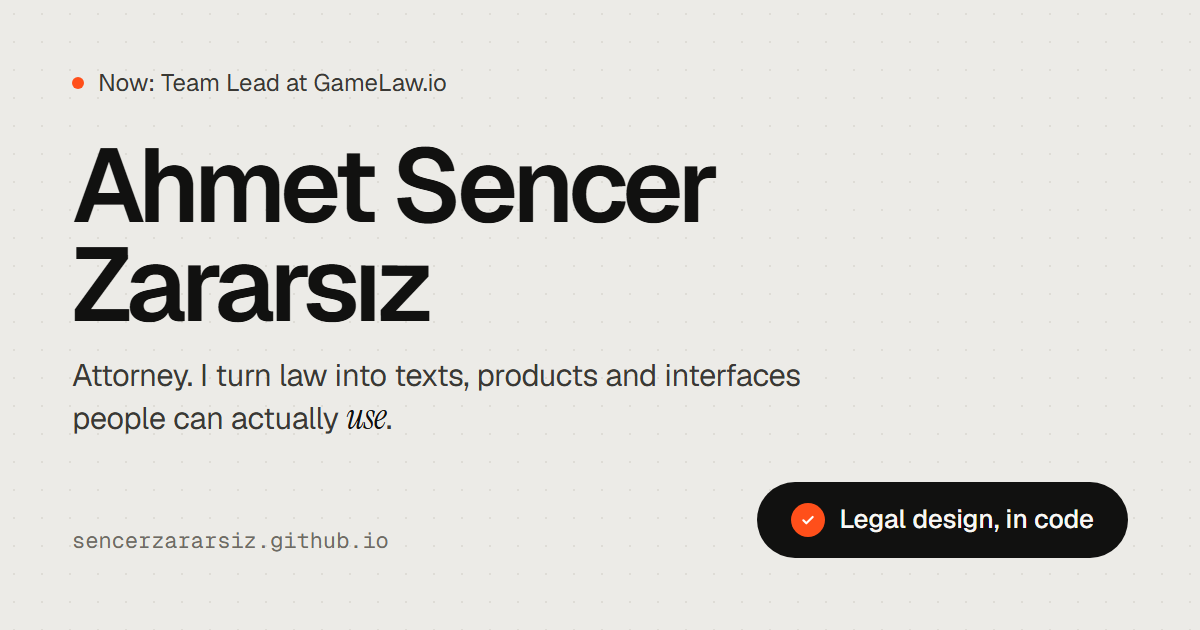
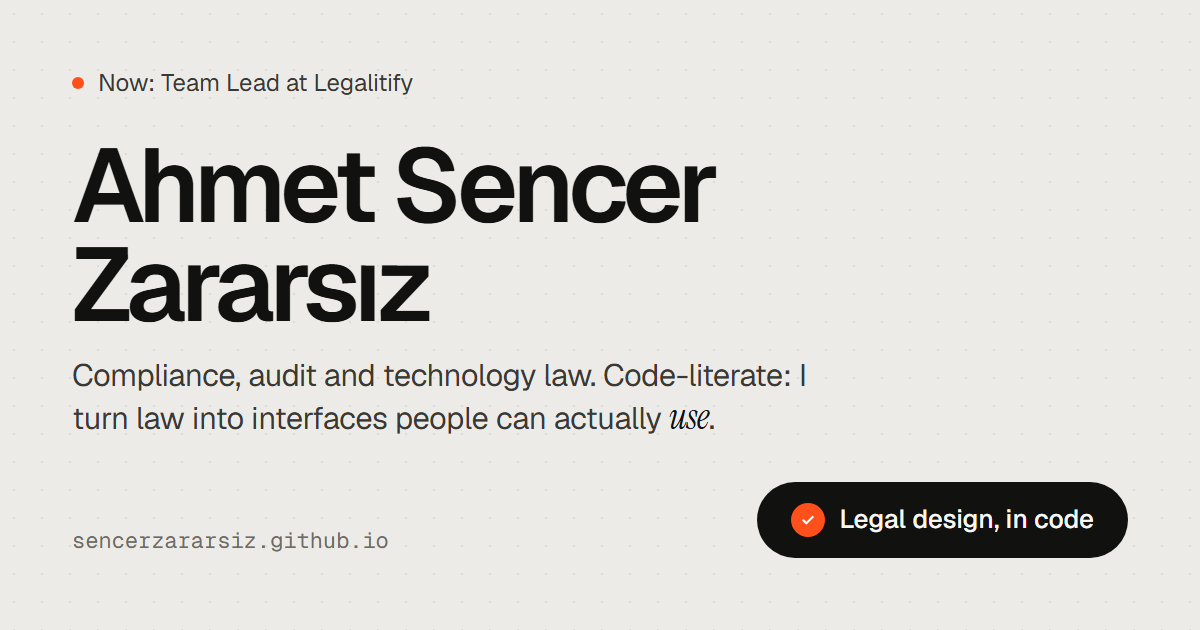
Rolleri güncelle: Legalitify Team Lead, GameLaw legal development/engineering/marketing; kod geçmişi
- Hero: 'Avukatım' yerine uyum, denetim, teknoloji hukuku ve kod okuryazarlığı
- Lexprotect kartı marka itibarı projesi olarak; kurucu çağrışımı veren ifadeler düzeltildi
- OG görselleri güncellendi

Changed region(s): [[0.0617, 0.573, 0.6783, 0.6937], [0.2467, 0.1206, 0.37, 0.1508]]

diff --git a/index.html b/index.html
@@ -58,9 +58,9 @@
   <section class="hero" aria-labelledby="h-name">
     <div class="wrap hero-grid">
       <div>
-        <a class="status" href="https://gamelaw.io" target="_blank" rel="noopener"><span class="pulse" aria-hidden="true"></span>Şu an GameLaw.io&#x27;da Team Lead</a>
+        <a class="status" href="https://legalitify.com" target="_blank" rel="noopener"><span class="pulse" aria-hidden="true"></span>Şu an Legalitify&#x27;da Team Lead</a>
         <h1 id="h-name"><span class="ln">Ahmet Sencer</span><span class="ln">Zararsız</span></h1>
-        <p class="lead">Avukatım. Hukuku, insanların gerçekten <em>kullanabileceği</em> metinlere, ürünlere ve arayüzlere çeviriyorum.</p>
+        <p class="lead">Uyum, denetim ve teknoloji hukuku üzerine çalışıyorum. Kod okuyup yazabildiğim için hukuku, insanların gerçekten <em>kullanabileceği</em> metinlere, ürünlere ve arayüzlere çeviriyorum.</p>
         <div class="cta">
           <a class="btn btn-ink" href="https://www.linkedin.com/in/sencer-ahmet" target="_blank" rel="noopener"><svg viewBox="0 0 24 24" fill="currentColor" aria-hidden="true" focusable="false"><path d="M4.98 3.5a2.5 2.5 0 11-.01 5 2.5 2.5 0 01.01-5zM3 9.75h4V21H3zM9.5 9.75h3.83v1.54h.05c.53-1 1.84-2.06 3.79-2.06 4.05 0 4.8 2.67 4.8 6.13V21h-4v-4.96c0-1.18-.02-2.7-1.65-2.7-1.65 0-1.9 1.29-1.9 2.62V21h-4z"/></svg> LinkedIn profilim</a>
           <a class="btn btn-line" href="/yazilar/">Yazılarım <svg viewBox="0 0 24 24" fill="none" stroke="currentColor" stroke-width="2" stroke-linecap="round" stroke-linejoin="round" aria-hidden="true" focusable="false"><path d="M5 12h14M13 6l6 6-6 6"/></svg></a>
@@ -81,7 +81,7 @@
   <section class="block" id="hakkimda" aria-labelledby="h-about">
     <div class="wrap about">
       <div class="rv"><div class="kicker">Hakkımda</div><h2 id="h-about" class="big">Hukuk fakültesinden sonra yolum mahkeme koridorlarından <em>ürün ekiplerine</em> uzandı.</h2></div>
-      <div class="body rv"><p>2022&#x27;de Atatürk Üniversitesi Hukuk Fakültesi&#x27;nden mezun oldum. Stajımı ve ilk avukatlık yıllarımı Ankara&#x27;da dava dosyaları, sözleşmeler ve KVKK metinleri arasında geçirdim. Aynı yıllarda kendi girişimlerimi kurdum, hukuk teknolojileri atölyeleri düzenledim.</p><p>TÖDEB Fintek Programı ve PARAM&#x27;daki çalışmam beni ödeme hizmetleri, MASAK mevzuatı ve regülasyon uyumunun içine soktu. Bugün lisanslı MASAK Uyum Görevlisi ve ISO/IEC 27001 BGYS Baş Denetçisiyim. Bilgi güvenliği denetimleri, iç kontrol ve risk analizleri, uyum yol haritaları gündelik işimin parçası.</p><p>Asıl merakım hukukun nasıl göründüğü ve nasıl kullanıldığı. Legalitify&#x27;da web sitelerini tarayan bir legaltech ürününün hukuki altyapısını kurdum. GameLaw.io&#x27;da oyun ekosistemi için kurulan hukuki platformun ekibini yönetiyorum. Legal design ve legaltech eğitimleriyle bu yaklaşımı bilişim ve teknoloji topluluklarına anlatıyorum.</p><div class="sign" aria-hidden="true">Ahmet Sencer Zararsız</div></div>
+      <div class="body rv"><p>2022&#x27;de Atatürk Üniversitesi Hukuk Fakültesi&#x27;nden mezun oldum. Stajımı ve ilk avukatlık yıllarımı Ankara&#x27;da dava dosyaları, sözleşmeler ve KVKK metinleri arasında geçirdim. Aynı yıllarda kendi girişimlerimi kurdum, hukuk teknolojileri atölyeleri düzenledim. 2023&#x27;te patika.dev&#x27;de HTML, CSS ve JavaScript projeleriyle kod yazmaya başladım; bugün yazılım ekipleriyle aynı dili konuşabiliyor, bir ürünün kodunu okuyup hukuki riskini oradan görebiliyorum.</p><p>TÖDEB Fintek Programı ve PARAM&#x27;daki çalışmam beni ödeme hizmetleri, MASAK mevzuatı ve regülasyon uyumunun içine soktu. Bugün lisanslı MASAK Uyum Görevlisi ve ISO/IEC 27001 BGYS Baş Denetçisiyim. Bilgi güvenliği denetimleri, iç kontrol ve risk analizleri, uyum yol haritaları gündelik işimin parçası.</p><p>Asıl merakım hukukun nasıl göründüğü ve nasıl kullanıldığı. Legalitify&#x27;da web sitelerini hukuki uyum açısından tarayan bir legaltech ürününün ekibini yönetiyor, ürünün hukuki altyapısında çalışıyorum. GameLaw.io&#x27;da oyun ekosistemine yönelik hukuki platformun legal development, legal engineering ve pazarlama tarafındayım. Legal design ve legaltech eğitimleriyle bu yaklaşımı bilişim ve teknoloji topluluklarına anlatıyorum.</p><div class="sign" aria-hidden="true">Ahmet Sencer Zararsız</div></div>
     </div>
   </section>
 
@@ -156,27 +156,27 @@
   <section class="block" id="girisimler" aria-labelledby="h-ven">
     <div class="wrap">
       <div class="sec-head rv">
-        <div><div class="kicker">Girişimler ve ürünler</div><h2 id="h-ven">Kurduğum ve <em>içinde yer aldığım.</em></h2></div>
-        <p>Hukuki altyapısında çalıştığım ürünler ve aktif rol aldığım girişimler.</p>
+        <div><div class="kicker">Girişimler ve ürünler</div><h2 id="h-ven">İçinde <em>yer aldığım.</em></h2></div>
+        <p>Ekibinde çalıştığım ürünler, hukuki tarafında yer aldığım projeler ve kendi kurduğum ilk girişimler.</p>
       </div>
       <div class="ventures">
-        <a class="v rv feature" href="https://gamelaw.io" target="_blank" rel="noopener">
-          <div class="top"><span class="yr">Güncel</span><span class="arrow"><svg viewBox="0 0 24 24" fill="none" stroke="currentColor" stroke-width="2" stroke-linecap="round" stroke-linejoin="round" aria-hidden="true" focusable="false"><path d="M7 17L17 7M8 7h9v9"/></svg></span></div>
-          <h3>GameLaw.io</h3>
-          <div class="role">Team Lead</div>
-          <p>Oyun ekosisteminin hukuki altyapısı: geliştiriciler, stüdyolar, yayıncılar, yatırımcılar ve espor için analiz araçları, rehberler ve sözleşme havuzu.</p>
-        </a>
-        <a class="v rv" href="https://legalitify.com" target="_blank" rel="noopener">
+        <a class="v rv feature" href="https://legalitify.com" target="_blank" rel="noopener">
           <div class="top"><span class="yr">2025 – devam</span><span class="arrow"><svg viewBox="0 0 24 24" fill="none" stroke="currentColor" stroke-width="2" stroke-linecap="round" stroke-linejoin="round" aria-hidden="true" focusable="false"><path d="M7 17L17 7M8 7h9v9"/></svg></span></div>
           <h3>Legalitify</h3>
-          <div class="role">Legal Engineer · Startup Yöneticisi</div>
+          <div class="role">Team Lead · Legal Engineer</div>
           <p>Web sitelerini, reklamları ve sözleşmeleri veri koruma, tüketici ve reklam mevzuatına göre tarayıp mevzuat atıflı düzeltme öneren legaltech ürünü.</p>
         </a>
+        <a class="v rv" href="https://gamelaw.io" target="_blank" rel="noopener">
+          <div class="top"><span class="yr">Güncel</span><span class="arrow"><svg viewBox="0 0 24 24" fill="none" stroke="currentColor" stroke-width="2" stroke-linecap="round" stroke-linejoin="round" aria-hidden="true" focusable="false"><path d="M7 17L17 7M8 7h9v9"/></svg></span></div>
+          <h3>GameLaw.io</h3>
+          <div class="role">Legal Development · Legal Engineer · Marketing</div>
+          <p>Oyun ekosisteminin hukuki altyapısı: geliştiriciler, stüdyolar, yayıncılar, yatırımcılar ve espor için analiz araçları, rehberler ve sözleşme havuzu.</p>
+        </a>
         <div class="v rv">
-          <div class="top"><span class="yr">2025 – devam</span></div>
+          <div class="top"><span class="yr">2025</span></div>
           <h3>Lexprotect · Lexzero · Banfake</h3>
-          <div class="role">Startup Yöneticisi</div>
-          <p>Legaltech girişim portföyü: altyapı, uyum ve operasyon stratejileri; KPI odaklı büyüme takibi.</p>
+          <div class="role">Hukuki altyapı</div>
+          <p>Marka itibarının korunmasına odaklanan bir proje. Projenin hukuki altyapısı ve uyum tarafında çalıştım.</p>
         </div>
         <div class="v rv">
           <div class="top"><span class="yr">2025 – devam</span></div>
@@ -210,12 +210,23 @@
         <li class="rv">
           <details open>
             <summary>
+              <span class="when">Eylül 2025 – <span class="now">Devam</span></span>
+              <h3 class="what">Legalitify<span>Team Lead · Legal Engineer</span></h3>
+              <span class="where">Birleşik Krallık · uzaktan</span>
+              <span class="plus"><svg viewBox="0 0 12 12" fill="none" stroke="currentColor" stroke-width="1.6" stroke-linecap="round" aria-hidden="true" focusable="false"><path d="M6 1v10M1 6h10"/></svg></span>
+            </summary>
+            <div class="body"><div></div><ul><li>Web sitelerini KVKK ve e-ticaret mevzuatına uyum açısından tarayan, eksik hukuki metinleri tespit edip üreten legaltech/SaaS ürününde ekip liderliği; ürünün hukuki altyapısı, uyum mimarisi ve dokümantasyonu.</li><li>Kullanıcı odaklı, entegrasyona uygun sözleşme mimarileri ve sektöre göre koşullu hukuki metin şablonları; legal design ilkeleriyle.</li><li>Yapay zekâ destekli uyum analizinde AI yönetişimi, KVKK/GDPR uyumu ve risk analizi.</li><li>LegalOps&#x27;un dijital araçlarla modernizasyonu; süreç verimliliği ve KPI odaklı büyüme takibi.</li></ul></div>
+          </details>
+        </li>
+        <li class="rv">
+          <details>
+            <summary>
               <span class="when"><span class="now">Devam</span></span>
-              <h3 class="what">GameLaw.io<span>Team Lead</span></h3>
+              <h3 class="what">GameLaw.io<span>Legal Development · Legal Engineer · Marketing</span></h3>
               <span class="where"></span>
               <span class="plus"><svg viewBox="0 0 12 12" fill="none" stroke="currentColor" stroke-width="1.6" stroke-linecap="round" aria-hidden="true" focusable="false"><path d="M6 1v10M1 6h10"/></svg></span>
             </summary>
-            <div class="body"><div></div><ul><li>Oyun geliştiricileri, stüdyolar, yayıncılar, yatırımcılar ve espor ekosistemi için kurulan hukuki altyapı platformunda ekip liderliği.</li><li>Platform; sözleşmeden fikrî mülkiyete, veri korumadan küresel pazara açılmaya kadar oyunun yaşam döngüsünü hukuki açıdan ele alıyor: oyun, uygulama ve web sitesi yasallık analizi, dijital due diligence, rehberler, yol haritaları ve sözleşme havuzu.</li></ul></div>
+            <div class="body"><div></div><ul><li>Oyun geliştiricileri, stüdyolar, yayıncılar, yatırımcılar ve espor ekosistemine yönelik hukuki altyapı platformunda legal development, legal engineering ve pazarlama çalışmaları.</li><li>Platform; sözleşmeden fikrî mülkiyete, veri korumadan küresel pazara açılmaya kadar oyunun yaşam döngüsünü hukuki açıdan ele alıyor: oyun, uygulama ve web sitesi yasallık analizi, dijital due diligence, rehberler, yol haritaları ve sözleşme havuzu.</li></ul></div>
           </details>
         </li>
         <li class="rv">
@@ -227,17 +238,6 @@
               <span class="plus"><svg viewBox="0 0 12 12" fill="none" stroke="currentColor" stroke-width="1.6" stroke-linecap="round" aria-hidden="true" focusable="false"><path d="M6 1v10M1 6h10"/></svg></span>
             </summary>
             <div class="body"><div></div><ul><li>7545 sayılı Siber Güvenlik Kanunu, KVKK, GDPR, 6563, 5809 ve 5651 sayılı kanunlar kapsamında regülasyon uyumu ve uyum yol haritaları.</li><li>ISO/IEC 27001 BGYS kapsamında şirket denetimleri ve belgelendirmeye hazırlık; denetim bulgularının ve risk analizlerinin raporlanması.</li><li>KVKK uyum projeleri (mobil, web ve fiziksel ortam): veri envanteri, aydınlatma ve açık rıza metinleri, uyum dokümantasyonu.</li><li>COSO yaklaşımıyla iç kontrol ve iç denetim, risk analizi ve ölçeklendirme; hukuki durum tespiti (due diligence) ve risk raporlama.</li><li>Yapay zekâ, Web3, fintek, e-ticaret ve SaaS ürünleri için hukuki risk analizleri; SaaS sözleşmeleri, sözleşme yönetimi (CLM) ve müzakere.</li><li>Girişim hukuku ve yatırım turları (şirketleşme, SHA); Türkiye, Avrupa ve MENA&#x27;da şirket işlemleri; şirketler ve sağlık hukuku danışmanlığı.</li><li>Reklam Kurulu nezdinde savunma ve uzlaşma; FSEK ve marka uyuşmazlıkları; arabuluculuk. Legal design, uyum mimarisi ve kurumsal eğitimler.</li></ul></div>
-          </details>
-        </li>
-        <li class="rv">
-          <details>
-            <summary>
-              <span class="when">Eylül 2025 – <span class="now">Devam</span></span>
-              <h3 class="what">Legalitify<span>Legal Engineer · Startup Yöneticisi</span></h3>
-              <span class="where">Birleşik Krallık · uzaktan</span>
-              <span class="plus"><svg viewBox="0 0 12 12" fill="none" stroke="currentColor" stroke-width="1.6" stroke-linecap="round" aria-hidden="true" focusable="false"><path d="M6 1v10M1 6h10"/></svg></span>
-            </summary>
-            <div class="body"><div></div><ul><li>Web sitelerini KVKK ve e-ticaret mevzuatına uyum açısından tarayan, eksik hukuki metinleri tespit edip üreten legaltech/SaaS ürününün hukuki altyapısı, uyum mimarisi ve dokümantasyonu.</li><li>Kullanıcı odaklı, entegrasyona uygun sözleşme mimarileri ve sektöre göre koşullu hukuki metin şablonları; legal design ilkeleriyle.</li><li>Yapay zekâ destekli uyum analizinde AI yönetişimi, KVKK/GDPR uyumu ve risk analizi.</li><li>LegalOps&#x27;un dijital araçlarla modernizasyonu; süreç verimliliği ve KPI odaklı büyüme takibi.</li></ul></div>
           </details>
         </li>
         <li class="rv">

diff --git a/en/index.html b/en/index.html
@@ -58,9 +58,9 @@
   <section class="hero" aria-labelledby="h-name">
     <div class="wrap hero-grid">
       <div>
-        <a class="status" href="https://gamelaw.io" target="_blank" rel="noopener"><span class="pulse" aria-hidden="true"></span>Now: Team Lead at GameLaw.io</a>
+        <a class="status" href="https://legalitify.com" target="_blank" rel="noopener"><span class="pulse" aria-hidden="true"></span>Now: Team Lead at Legalitify</a>
         <h1 id="h-name"><span class="ln">Ahmet Sencer</span><span class="ln">Zararsız</span></h1>
-        <p class="lead">I'm a lawyer. I turn law into texts, products and interfaces people can actually <em>use</em>.</p>
+        <p class="lead">I work on compliance, audit and technology law. Because I can read and write code, I turn law into texts, products and interfaces people can actually <em>use</em>.</p>
         <div class="cta">
           <a class="btn btn-ink" href="https://www.linkedin.com/in/sencer-ahmet" target="_blank" rel="noopener"><svg viewBox="0 0 24 24" fill="currentColor" aria-hidden="true" focusable="false"><path d="M4.98 3.5a2.5 2.5 0 11-.01 5 2.5 2.5 0 01.01-5zM3 9.75h4V21H3zM9.5 9.75h3.83v1.54h.05c.53-1 1.84-2.06 3.79-2.06 4.05 0 4.8 2.67 4.8 6.13V21h-4v-4.96c0-1.18-.02-2.7-1.65-2.7-1.65 0-1.9 1.29-1.9 2.62V21h-4z"/></svg> My LinkedIn</a>
           <a class="btn btn-line" href="/en/writing/">Writing <svg viewBox="0 0 24 24" fill="none" stroke="currentColor" stroke-width="2" stroke-linecap="round" stroke-linejoin="round" aria-hidden="true" focusable="false"><path d="M5 12h14M13 6l6 6-6 6"/></svg></a>
@@ -81,7 +81,7 @@
   <section class="block" id="about" aria-labelledby="h-about">
     <div class="wrap about">
       <div class="rv"><div class="kicker">About</div><h2 id="h-about" class="big">After law school, my path ran from courtroom corridors to <em>product teams</em>.</h2></div>
-      <div class="body rv"><p>I graduated from Atatürk University Faculty of Law in 2022. I spent my traineeship and first years as a lawyer in Ankara among case files, contracts and data protection documents, and in the same years founded my own ventures and ran legal technology workshops.</p><p>The TÖDEB Fintech Programme and my work at PARAM pulled me into payment services, anti-money-laundering rules and regulatory compliance. Today I&#x27;m a licensed MASAK Compliance Officer and an ISO/IEC 27001 ISMS Lead Auditor; information security audits, internal control, risk analyses and compliance roadmaps are part of my everyday work.</p><p>What I&#x27;m really curious about is how law looks and how it&#x27;s used. At Legalitify I built the legal infrastructure of a legaltech product that scans websites. At GameLaw.io I lead the team behind a legal platform for the games ecosystem. Through legal design and legaltech training I share this approach with IT and technology communities.</p><div class="sign" aria-hidden="true">Ahmet Sencer Zararsız</div></div>
+      <div class="body rv"><p>I graduated from Atatürk University Faculty of Law in 2022. I spent my traineeship and first years as a lawyer in Ankara among case files, contracts and data protection documents, and in the same years founded my own ventures and ran legal technology workshops. In 2023 I started coding with HTML, CSS and JavaScript projects on patika.dev; today I can talk to engineering teams in their language and read a product&#x27;s code to see its legal risk.</p><p>The TÖDEB Fintech Programme and my work at PARAM pulled me into payment services, anti-money-laundering rules and regulatory compliance. Today I&#x27;m a licensed MASAK Compliance Officer and an ISO/IEC 27001 ISMS Lead Auditor; information security audits, internal control, risk analyses and compliance roadmaps are part of my everyday work.</p><p>What I&#x27;m really curious about is how law looks and how it&#x27;s used. At Legalitify I lead the team behind a legaltech product that scans websites for legal compliance, and work on its legal infrastructure. At GameLaw.io, a legal platform for the games ecosystem, I work on legal development, legal engineering and marketing. Through legal design and legaltech training I share this approach with IT and technology communities.</p><div class="sign" aria-hidden="true">Ahmet Sencer Zararsız</div></div>
     </div>
   </section>
 
@@ -156,27 +156,27 @@
   <section class="block" id="ventures" aria-labelledby="h-ven">
     <div class="wrap">
       <div class="sec-head rv">
-        <div><div class="kicker">Ventures &amp; products</div><h2 id="h-ven">Founded and <em>built with.</em></h2></div>
-        <p>Products whose legal infrastructure I work on and ventures where I hold an active role.</p>
+        <div><div class="kicker">Ventures &amp; products</div><h2 id="h-ven">Where I've <em>been part of the team.</em></h2></div>
+        <p>Products whose teams I work in, projects where I handled the legal side, and the early ventures I founded myself.</p>
       </div>
       <div class="ventures">
-        <a class="v rv feature" href="https://gamelaw.io" target="_blank" rel="noopener">
-          <div class="top"><span class="yr">Current</span><span class="arrow"><svg viewBox="0 0 24 24" fill="none" stroke="currentColor" stroke-width="2" stroke-linecap="round" stroke-linejoin="round" aria-hidden="true" focusable="false"><path d="M7 17L17 7M8 7h9v9"/></svg></span></div>
-          <h3>GameLaw.io</h3>
-          <div class="role">Team Lead</div>
-          <p>Legal infrastructure for the games ecosystem: analysis tools, guides and a contract library for developers, studios, publishers, investors and esports.</p>
-        </a>
-        <a class="v rv" href="https://legalitify.com" target="_blank" rel="noopener">
+        <a class="v rv feature" href="https://legalitify.com" target="_blank" rel="noopener">
           <div class="top"><span class="yr">2025 – present</span><span class="arrow"><svg viewBox="0 0 24 24" fill="none" stroke="currentColor" stroke-width="2" stroke-linecap="round" stroke-linejoin="round" aria-hidden="true" focusable="false"><path d="M7 17L17 7M8 7h9v9"/></svg></span></div>
           <h3>Legalitify</h3>
-          <div class="role">Legal Engineer · Startup Manager</div>
+          <div class="role">Team Lead · Legal Engineer</div>
           <p>A legaltech product that scans websites, ads and contracts against data protection, consumer and advertising law and proposes cited fixes.</p>
         </a>
+        <a class="v rv" href="https://gamelaw.io" target="_blank" rel="noopener">
+          <div class="top"><span class="yr">Current</span><span class="arrow"><svg viewBox="0 0 24 24" fill="none" stroke="currentColor" stroke-width="2" stroke-linecap="round" stroke-linejoin="round" aria-hidden="true" focusable="false"><path d="M7 17L17 7M8 7h9v9"/></svg></span></div>
+          <h3>GameLaw.io</h3>
+          <div class="role">Legal Development · Legal Engineer · Marketing</div>
+          <p>Legal infrastructure for the games ecosystem: analysis tools, guides and a contract library for developers, studios, publishers, investors and esports.</p>
+        </a>
         <div class="v rv">
-          <div class="top"><span class="yr">2025 – present</span></div>
+          <div class="top"><span class="yr">2025</span></div>
           <h3>Lexprotect · Lexzero · Banfake</h3>
-          <div class="role">Startup Manager</div>
-          <p>A legaltech startup portfolio: infrastructure, compliance and operations strategy; KPI-driven growth tracking.</p>
+          <div class="role">Legal side</div>
+          <p>A project focused on protecting brand reputation. I worked on its legal infrastructure and compliance.</p>
         </div>
         <div class="v rv">
           <div class="top"><span class="yr">2025 – present</span></div>
@@ -210,12 +210,23 @@
         <li class="rv">
           <details open>
             <summary>
+              <span class="when">Sep 2025 – <span class="now">Present</span></span>
+              <h3 class="what">Legalitify<span>Team Lead · Legal Engineer</span></h3>
+              <span class="where">United Kingdom · remote</span>
+              <span class="plus"><svg viewBox="0 0 12 12" fill="none" stroke="currentColor" stroke-width="1.6" stroke-linecap="round" aria-hidden="true" focusable="false"><path d="M6 1v10M1 6h10"/></svg></span>
+            </summary>
+            <div class="body"><div></div><ul><li>Team lead for a legaltech/SaaS product that scans websites for KVKK and e-commerce compliance, flags missing legal texts and generates them; its legal infrastructure, compliance architecture and documentation.</li><li>User-centred, integration-ready contract architectures and sector-conditional legal text templates, built on legal design principles.</li><li>AI governance, KVKK/GDPR compliance and risk analysis for AI-assisted compliance analysis tools.</li><li>Modernising LegalOps with digital tools; process efficiency and KPI-driven growth tracking.</li></ul></div>
+          </details>
+        </li>
+        <li class="rv">
+          <details>
+            <summary>
               <span class="when"><span class="now">Present</span></span>
-              <h3 class="what">GameLaw.io<span>Team Lead</span></h3>
+              <h3 class="what">GameLaw.io<span>Legal Development · Legal Engineer · Marketing</span></h3>
               <span class="where"></span>
               <span class="plus"><svg viewBox="0 0 12 12" fill="none" stroke="currentColor" stroke-width="1.6" stroke-linecap="round" aria-hidden="true" focusable="false"><path d="M6 1v10M1 6h10"/></svg></span>
             </summary>
-            <div class="body"><div></div><ul><li>Team lead at a legal infrastructure platform for game developers, studios, publishers, investors and the esports ecosystem.</li><li>The platform covers the game lifecycle from contracts and IP to data protection and global expansion: game, app and website legality analysis, digital due diligence, guides, roadmaps and a contract library.</li></ul></div>
+            <div class="body"><div></div><ul><li>Legal development, legal engineering and marketing at a legal infrastructure platform for game developers, studios, publishers, investors and the esports ecosystem.</li><li>The platform covers the game lifecycle from contracts and IP to data protection and global expansion: game, app and website legality analysis, digital due diligence, guides, roadmaps and a contract library.</li></ul></div>
           </details>
         </li>
         <li class="rv">
@@ -227,17 +238,6 @@
               <span class="plus"><svg viewBox="0 0 12 12" fill="none" stroke="currentColor" stroke-width="1.6" stroke-linecap="round" aria-hidden="true" focusable="false"><path d="M6 1v10M1 6h10"/></svg></span>
             </summary>
             <div class="body"><div></div><ul><li>Regulatory compliance and compliance roadmaps under Cybersecurity Law No. 7545, KVKK, GDPR and Laws No. 6563, 5809 and 5651.</li><li>Company audits and certification readiness under ISO/IEC 27001 ISMS; reporting of audit findings and risk analyses.</li><li>KVKK compliance projects (mobile, web and physical): data inventories, privacy notices, explicit consent texts and documentation.</li><li>Internal control and internal audit with a COSO approach; risk analysis, due diligence and risk reporting.</li><li>Legal risk analyses for AI, Web3, fintech, e-commerce and SaaS products; SaaS agreements, contract lifecycle management (CLM) and negotiation.</li><li>Startup law and investment rounds (incorporation, SHAs); corporate transactions in Türkiye, Europe and MENA; corporate and health law advisory.</li><li>Defence and settlement before the Advertising Board; copyright and trademark disputes; mediation. Legal design, compliance architecture and corporate training.</li></ul></div>
-          </details>
-        </li>
-        <li class="rv">
-          <details>
-            <summary>
-              <span class="when">Sep 2025 – <span class="now">Present</span></span>
-              <h3 class="what">Legalitify<span>Legal Engineer · Startup Manager</span></h3>
-              <span class="where">United Kingdom · remote</span>
-              <span class="plus"><svg viewBox="0 0 12 12" fill="none" stroke="currentColor" stroke-width="1.6" stroke-linecap="round" aria-hidden="true" focusable="false"><path d="M6 1v10M1 6h10"/></svg></span>
-            </summary>
-            <div class="body"><div></div><ul><li>Legal infrastructure, compliance architecture and documentation for a legaltech/SaaS product that scans websites for KVKK and e-commerce compliance, flags missing legal texts and generates them.</li><li>User-centred, integration-ready contract architectures and sector-conditional legal text templates, built on legal design principles.</li><li>AI governance, KVKK/GDPR compliance and risk analysis for AI-assisted compliance analysis tools.</li><li>Modernising LegalOps with digital tools; process efficiency and KPI-driven growth tracking.</li></ul></div>
           </details>
         </li>
         <li class="rv">

diff --git a/tools/og.html b/tools/og.html
@@ -23,7 +23,7 @@ p em{font-family:var(--serif);font-style:italic;color:#111110;font-size:1.15em}
 </div>
 <script>
 var en=location.search==="?lang=en";
-document.getElementById('st').textContent=en?'Now: Team Lead at GameLaw.io':"Şu an GameLaw.io'da Team Lead";
-document.getElementById('ld').innerHTML=en?'Attorney. I turn law into texts, products and interfaces people can actually <em>use</em>.':'Avukat. Hukuku, insanların gerçekten <em>kullanabileceği</em> metinlere ve arayüzlere çeviriyorum.';
+document.getElementById('st').textContent=en?'Now: Team Lead at Legalitify':"Şu an Legalitify'da Team Lead";
+document.getElementById('ld').innerHTML=en?'Compliance, audit and technology law. Code-literate: I turn law into interfaces people can actually <em>use</em>.':'Uyum, denetim ve teknoloji hukuku. Kod okuryazarı; hukuku gerçekten <em>kullanılabilen</em> arayüzlere çeviriyorum.';
 document.getElementById('pl').textContent=en?'Legal design, in code':'Kodla legal design';
 </script></body></html>

diff --git a/build.py b/build.py
@@ -159,8 +159,8 @@ HOME = {
         "title": "Ahmet Sencer Zararsız · Avukat",
         "desc": "Ahmet Sencer Zararsız. Avukat; teknoloji hukuku, regülasyon uyumu, legaltech ve legal design üzerine çalışıyor. Özgeçmiş, yazılar ve eğitimler.",
         "og_locale": "tr_TR",
-        "status": "Şu an GameLaw.io'da Team Lead",
-        "lead": "Avukatım. Hukuku, insanların gerçekten <em>kullanabileceği</em> metinlere, ürünlere ve arayüzlere çeviriyorum.",
+        "status": "Şu an Legalitify'da Team Lead",
+        "lead": "Uyum, denetim ve teknoloji hukuku üzerine çalışıyorum. Kod okuyup yazabildiğim için hukuku, insanların gerçekten <em>kullanabileceği</em> metinlere, ürünlere ve arayüzlere çeviriyorum.",
         "cta1": "LinkedIn profilim",
         "cta2": "Yazılarım",
         "reel_cap": "Bu animasyonun tamamı kod. Tek bir şekil, bir uyum akışını baştan sona anlatıyor.",
@@ -172,9 +172,9 @@ HOME = {
         "about_k": "Hakkımda",
         "about_big": "Hukuk fakültesinden sonra yolum mahkeme koridorlarından <em>ürün ekiplerine</em> uzandı.",
         "about": [
-            "2022'de Atatürk Üniversitesi Hukuk Fakültesi'nden mezun oldum. Stajımı ve ilk avukatlık yıllarımı Ankara'da dava dosyaları, sözleşmeler ve KVKK metinleri arasında geçirdim. Aynı yıllarda kendi girişimlerimi kurdum, hukuk teknolojileri atölyeleri düzenledim.",
+            "2022'de Atatürk Üniversitesi Hukuk Fakültesi'nden mezun oldum. Stajımı ve ilk avukatlık yıllarımı Ankara'da dava dosyaları, sözleşmeler ve KVKK metinleri arasında geçirdim. Aynı yıllarda kendi girişimlerimi kurdum, hukuk teknolojileri atölyeleri düzenledim. 2023'te patika.dev'de HTML, CSS ve JavaScript projeleriyle kod yazmaya başladım; bugün yazılım ekipleriyle aynı dili konuşabiliyor, bir ürünün kodunu okuyup hukuki riskini oradan görebiliyorum.",
             "TÖDEB Fintek Programı ve PARAM'daki çalışmam beni ödeme hizmetleri, MASAK mevzuatı ve regülasyon uyumunun içine soktu. Bugün lisanslı MASAK Uyum Görevlisi ve ISO/IEC 27001 BGYS Baş Denetçisiyim. Bilgi güvenliği denetimleri, iç kontrol ve risk analizleri, uyum yol haritaları gündelik işimin parçası.",
-            "Asıl merakım hukukun nasıl göründüğü ve nasıl kullanıldığı. Legalitify'da web sitelerini tarayan bir legaltech ürününün hukuki altyapısını kurdum. GameLaw.io'da oyun ekosistemi için kurulan hukuki platformun ekibini yönetiyorum. Legal design ve legaltech eğitimleriyle bu yaklaşımı bilişim ve teknoloji topluluklarına anlatıyorum.",
+            "Asıl merakım hukukun nasıl göründüğü ve nasıl kullanıldığı. Legalitify'da web sitelerini hukuki uyum açısından tarayan bir legaltech ürününün ekibini yönetiyor, ürünün hukuki altyapısında çalışıyorum. GameLaw.io'da oyun ekosistemine yönelik hukuki platformun legal development, legal engineering ve pazarlama tarafındayım. Legal design ve legaltech eğitimleriyle bu yaklaşımı bilişim ve teknoloji topluluklarına anlatıyorum.",
         ],
         "approach_k": "Yaklaşım",
         "approach_h": "Dört şapka, <em>tek masa.</em>",
@@ -221,8 +221,8 @@ HOME = {
             ("Haklarınız", 'Bilgi isteme, düzeltme, silme ve itiraz <code>KVKK m.11</code>'),
         ],
         "ven_k": "Girişimler ve ürünler",
-        "ven_h": "Kurduğum ve <em>içinde yer aldığım.</em>",
-        "ven_p": "Hukuki altyapısında çalıştığım ürünler ve aktif rol aldığım girişimler.",
+        "ven_h": "İçinde <em>yer aldığım.</em>",
+        "ven_p": "Ekibinde çalıştığım ürünler, hukuki tarafında yer aldığım projeler ve kendi kurduğum ilk girişimler.",
         "now": "Devam",
         "exp_k": "Deneyim",
         "exp_h": "Adliyeden ürün ekibine.",
@@ -251,8 +251,8 @@ HOME = {
         "title": "Ahmet Sencer Zararsız · Attorney",
         "desc": "Ahmet Sencer Zararsız. Attorney working on technology law, regulatory compliance, legaltech and legal design. CV, writing and training.",
         "og_locale": "en_US",
-        "status": "Now: Team Lead at GameLaw.io",
-        "lead": "I'm a lawyer. I turn law into texts, products and interfaces people can actually <em>use</em>.",
+        "status": "Now: Team Lead at Legalitify",
+        "lead": "I work on compliance, audit and technology law. Because I can read and write code, I turn law into texts, products and interfaces people can actually <em>use</em>.",
         "cta1": "My LinkedIn",
         "cta2": "Writing",
         "reel_cap": "Every frame of this animation is code. One shape tells a whole compliance flow.",
@@ -264,9 +264,9 @@ HOME = {
         "about_k": "About",
         "about_big": "After law school, my path ran from courtroom corridors to <em>product teams</em>.",
         "about": [
-            "I graduated from Atatürk University Faculty of Law in 2022. I spent my traineeship and first years as a lawyer in Ankara among case files, contracts and data protection documents, and in the same years founded my own ventures and ran legal technology workshops.",
+            "I graduated from Atatürk University Faculty of Law in 2022. I spent my traineeship and first years as a lawyer in Ankara among case files, contracts and data protection documents, and in the same years founded my own ventures and ran legal technology workshops. In 2023 I started coding with HTML, CSS and JavaScript projects on patika.dev; today I can talk to engineering teams in their language and read a product's code to see its legal risk.",
             "The TÖDEB Fintech Programme and my work at PARAM pulled me into payment services, anti-money-laundering rules and regulatory compliance. Today I'm a licensed MASAK Compliance Officer and an ISO/IEC 27001 ISMS Lead Auditor; information security audits, internal control, risk analyses and compliance roadmaps are part of my everyday work.",
-            "What I'm really curious about is how law looks and how it's used. At Legalitify I built the legal infrastructure of a legaltech product that scans websites. At GameLaw.io I lead the team behind a legal platform for the games ecosystem. Through legal design and legaltech training I share this approach with IT and technology communities.",
+            "What I'm really curious about is how law looks and how it's used. At Legalitify I lead the team behind a legaltech product that scans websites for legal compliance, and work on its legal infrastructure. At GameLaw.io, a legal platform for the games ecosystem, I work on legal development, legal engineering and marketing. Through legal design and legaltech training I share this approach with IT and technology communities.",
         ],
         "approach_k": "Approach",
         "approach_h": "Four hats, <em>one desk.</em>",
@@ -313,8 +313,8 @@ HOME = {
             ("Your rights", 'Access, correction, erasure and objection <code>KVKK Art. 11</code>'),
         ],
         "ven_k": "Ventures & products",
-        "ven_h": "Founded and <em>built with.</em>",
-        "ven_p": "Products whose legal infrastructure I work on and ventures where I hold an active role.",
+        "ven_h": "Where I've <em>been part of the team.</em>",
+        "ven_p": "Products whose teams I work in, projects where I handled the legal side, and the early ventures I founded myself.",
         "now": "Present",
         "exp_k": "Experience",
         "exp_h": "From courtroom to product team.",
@@ -348,10 +348,19 @@ HOME_IDS = {
 
 # Deneyim: (tarih_tr, tarih_en, devam?, şirket, rol_tr, rol_en, yer_tr, yer_en, [madde_tr], [madde_en])
 EXPERIENCE = [
-    ("", "", True, "GameLaw.io", "Team Lead", "Team Lead", "", "",
-     ["Oyun geliştiricileri, stüdyolar, yayıncılar, yatırımcılar ve espor ekosistemi için kurulan hukuki altyapı platformunda ekip liderliği.",
+    ("Eylül 2025", "Sep 2025", True, "Legalitify", "Team Lead · Legal Engineer", "Team Lead · Legal Engineer", "Birleşik Krallık · uzaktan", "United Kingdom · remote",
+     ["Web sitelerini KVKK ve e-ticaret mevzuatına uyum açısından tarayan, eksik hukuki metinleri tespit edip üreten legaltech/SaaS ürününde ekip liderliği; ürünün hukuki altyapısı, uyum mimarisi ve dokümantasyonu.",
+      "Kullanıcı odaklı, entegrasyona uygun sözleşme mimarileri ve sektöre göre koşullu hukuki metin şablonları; legal design ilkeleriyle.",
+      "Yapay zekâ destekli uyum analizinde AI yönetişimi, KVKK/GDPR uyumu ve risk analizi.",
+      "LegalOps'un dijital araçlarla modernizasyonu; süreç verimliliği ve KPI odaklı büyüme takibi."],
+     ["Team lead for a legaltech/SaaS product that scans websites for KVKK and e-commerce compliance, flags missing legal texts and generates them; its legal infrastructure, compliance architecture and documentation.",
+      "User-centred, integration-ready contract architectures and sector-conditional legal text templates, built on legal design principles.",
+      "AI governance, KVKK/GDPR compliance and risk analysis for AI-assisted compliance analysis tools.",
+      "Modernising LegalOps with digital tools; process efficiency and KPI-driven growth tracking."]),
+    ("", "", True, "GameLaw.io", "Legal Development · Legal Engineer · Marketing", "Legal Development · Legal Engineer · Marketing", "", "",
+     ["Oyun geliştiricileri, stüdyolar, yayıncılar, yatırımcılar ve espor ekosistemine yönelik hukuki altyapı platformunda legal development, legal engineering ve pazarlama çalışmaları.",
       "Platform; sözleşmeden fikrî mülkiyete, veri korumadan küresel pazara açılmaya kadar oyunun yaşam döngüsünü hukuki açıdan ele alıyor: oyun, uygulama ve web sitesi yasallık analizi, dijital due diligence, rehberler, yol haritaları ve sözleşme havuzu."],
-     ["Team lead at a legal infrastructure platform for game developers, studios, publishers, investors and the esports ecosystem.",
+     ["Legal development, legal engineering and marketing at a legal infrastructure platform for game developers, studios, publishers, investors and the esports ecosystem.",
       "The platform covers the game lifecycle from contracts and IP to data protection and global expansion: game, app and website legality analysis, digital due diligence, guides, roadmaps and a contract library."]),
     ("Ekim 2025", "Oct 2025", True, "Karataş & Partners Hukuk Bürosu", "Avukat · Teknoloji Hukuku, Uyum ve Denetim, Eğitmen", "Attorney · Technology Law, Compliance & Audit, Trainer", "İstanbul", "Istanbul",
      ["7545 sayılı Siber Güvenlik Kanunu, KVKK, GDPR, 6563, 5809 ve 5651 sayılı kanunlar kapsamında regülasyon uyumu ve uyum yol haritaları.",
@@ -368,15 +377,6 @@ EXPERIENCE = [
       "Legal risk analyses for AI, Web3, fintech, e-commerce and SaaS products; SaaS agreements, contract lifecycle management (CLM) and negotiation.",
       "Startup law and investment rounds (incorporation, SHAs); corporate transactions in Türkiye, Europe and MENA; corporate and health law advisory.",
       "Defence and settlement before the Advertising Board; copyright and trademark disputes; mediation. Legal design, compliance architecture and corporate training."]),
-    ("Eylül 2025", "Sep 2025", True, "Legalitify", "Legal Engineer · Startup Yöneticisi", "Legal Engineer · Startup Manager", "Birleşik Krallık · uzaktan", "United Kingdom · remote",
-     ["Web sitelerini KVKK ve e-ticaret mevzuatına uyum açısından tarayan, eksik hukuki metinleri tespit edip üreten legaltech/SaaS ürününün hukuki altyapısı, uyum mimarisi ve dokümantasyonu.",
-      "Kullanıcı odaklı, entegrasyona uygun sözleşme mimarileri ve sektöre göre koşullu hukuki metin şablonları; legal design ilkeleriyle.",
-      "Yapay zekâ destekli uyum analizinde AI yönetişimi, KVKK/GDPR uyumu ve risk analizi.",
-      "LegalOps'un dijital araçlarla modernizasyonu; süreç verimliliği ve KPI odaklı büyüme takibi."],
-     ["Legal infrastructure, compliance architecture and documentation for a legaltech/SaaS product that scans websites for KVKK and e-commerce compliance, flags missing legal texts and generates them.",
-      "User-centred, integration-ready contract architectures and sector-conditional legal text templates, built on legal design principles.",
-      "AI governance, KVKK/GDPR compliance and risk analysis for AI-assisted compliance analysis tools.",
-      "Modernising LegalOps with digital tools; process efficiency and KPI-driven growth tracking."]),
     ("Mart 2025 – Haziran 2026", "Mar 2025 – Jun 2026", False, "PARAM · Türk Elektronik Para A.Ş.", "Avukat · KVKK ve Regülasyon Uyumu (TÖDEB Fintek Çıraklık Programı)", "Attorney · KVKK & Regulatory Compliance (TÖDEB Fintech Apprenticeship)", "Ankara · hibrit", "Ankara · hybrid",
      ["5549 (MASAK), 6493 (ödeme hizmetleri ve elektronik para) ve 6698 sayılı kanunlar çerçevesinde grup şirketlerinin uyum süreçleri, yükümlülük analizi ve risk raporlaması.",
       "Şüpheli işlem izleme uyumu; ödeme sistemleri, e-ticaret ve sosyal medya süreçlerine ilişkin regülatif risk analizleri.",
@@ -403,15 +403,15 @@ EXPERIENCE = [
 ]
 
 VENTURES = [
-    ("GameLaw.io", "https://gamelaw.io", "Güncel", "Current", "Team Lead", "Team Lead",
-     "Oyun ekosisteminin hukuki altyapısı: geliştiriciler, stüdyolar, yayıncılar, yatırımcılar ve espor için analiz araçları, rehberler ve sözleşme havuzu.",
-     "Legal infrastructure for the games ecosystem: analysis tools, guides and a contract library for developers, studios, publishers, investors and esports.", True),
-    ("Legalitify", "https://legalitify.com", "2025 –", "2025 –", "Legal Engineer · Startup Yöneticisi", "Legal Engineer · Startup Manager",
+    ("Legalitify", "https://legalitify.com", "2025 –", "2025 –", "Team Lead · Legal Engineer", "Team Lead · Legal Engineer",
      "Web sitelerini, reklamları ve sözleşmeleri veri koruma, tüketici ve reklam mevzuatına göre tarayıp mevzuat atıflı düzeltme öneren legaltech ürünü.",
-     "A legaltech product that scans websites, ads and contracts against data protection, consumer and advertising law and proposes cited fixes.", False),
-    ("Lexprotect · Lexzero · Banfake", "", "2025 –", "2025 –", "Startup Yöneticisi", "Startup Manager",
-     "Legaltech girişim portföyü: altyapı, uyum ve operasyon stratejileri; KPI odaklı büyüme takibi.",
-     "A legaltech startup portfolio: infrastructure, compliance and operations strategy; KPI-driven growth tracking.", False),
+     "A legaltech product that scans websites, ads and contracts against data protection, consumer and advertising law and proposes cited fixes.", True),
+    ("GameLaw.io", "https://gamelaw.io", "Güncel", "Current", "Legal Development · Legal Engineer · Marketing", "Legal Development · Legal Engineer · Marketing",
+     "Oyun ekosisteminin hukuki altyapısı: geliştiriciler, stüdyolar, yayıncılar, yatırımcılar ve espor için analiz araçları, rehberler ve sözleşme havuzu.",
+     "Legal infrastructure for the games ecosystem: analysis tools, guides and a contract library for developers, studios, publishers, investors and esports.", False),
+    ("Lexprotect · Lexzero · Banfake", "", "2025", "2025", "Hukuki altyapı", "Legal side",
+     "Marka itibarının korunmasına odaklanan bir proje. Projenin hukuki altyapısı ve uyum tarafında çalıştım.",
+     "A project focused on protecting brand reputation. I worked on its legal infrastructure and compliance.", False),
     ("Türkiye Fintek Topluluğu", "", "2025 –", "2025 –", "Kurucu Üye · Genel Sekreter · Eğitmen", "Founding Member · Secretary General · Trainer",
      "5549, 6493 ve 6698 sayılı kanunlar kapsamında insurtech, fintech, regtech, ödeme hizmetleri, Web3, blokzincir, akıllı sözleşmeler ve DAO eğitimleri.",
      "Training and workshops on insurtech, fintech, regtech, payment services, Web3, blockchain, smart contracts and DAOs under Laws No. 5549, 6493 and 6698.", False),
@@ -681,7 +681,7 @@ def home(lang):
   <section class="hero" aria-labelledby="h-name">
     <div class="wrap hero-grid">
       <div>
-        <a class="status" href="https://gamelaw.io" target="_blank" rel="noopener"><span class="pulse" aria-hidden="true"></span>{e(c["status"])}</a>
+        <a class="status" href="https://legalitify.com" target="_blank" rel="noopener"><span class="pulse" aria-hidden="true"></span>{e(c["status"])}</a>
         <h1 id="h-name"><span class="ln">Ahmet Sencer</span><span class="ln">Zararsız</span></h1>
         <p class="lead">{c["lead"]}</p>
         <div class="cta">
